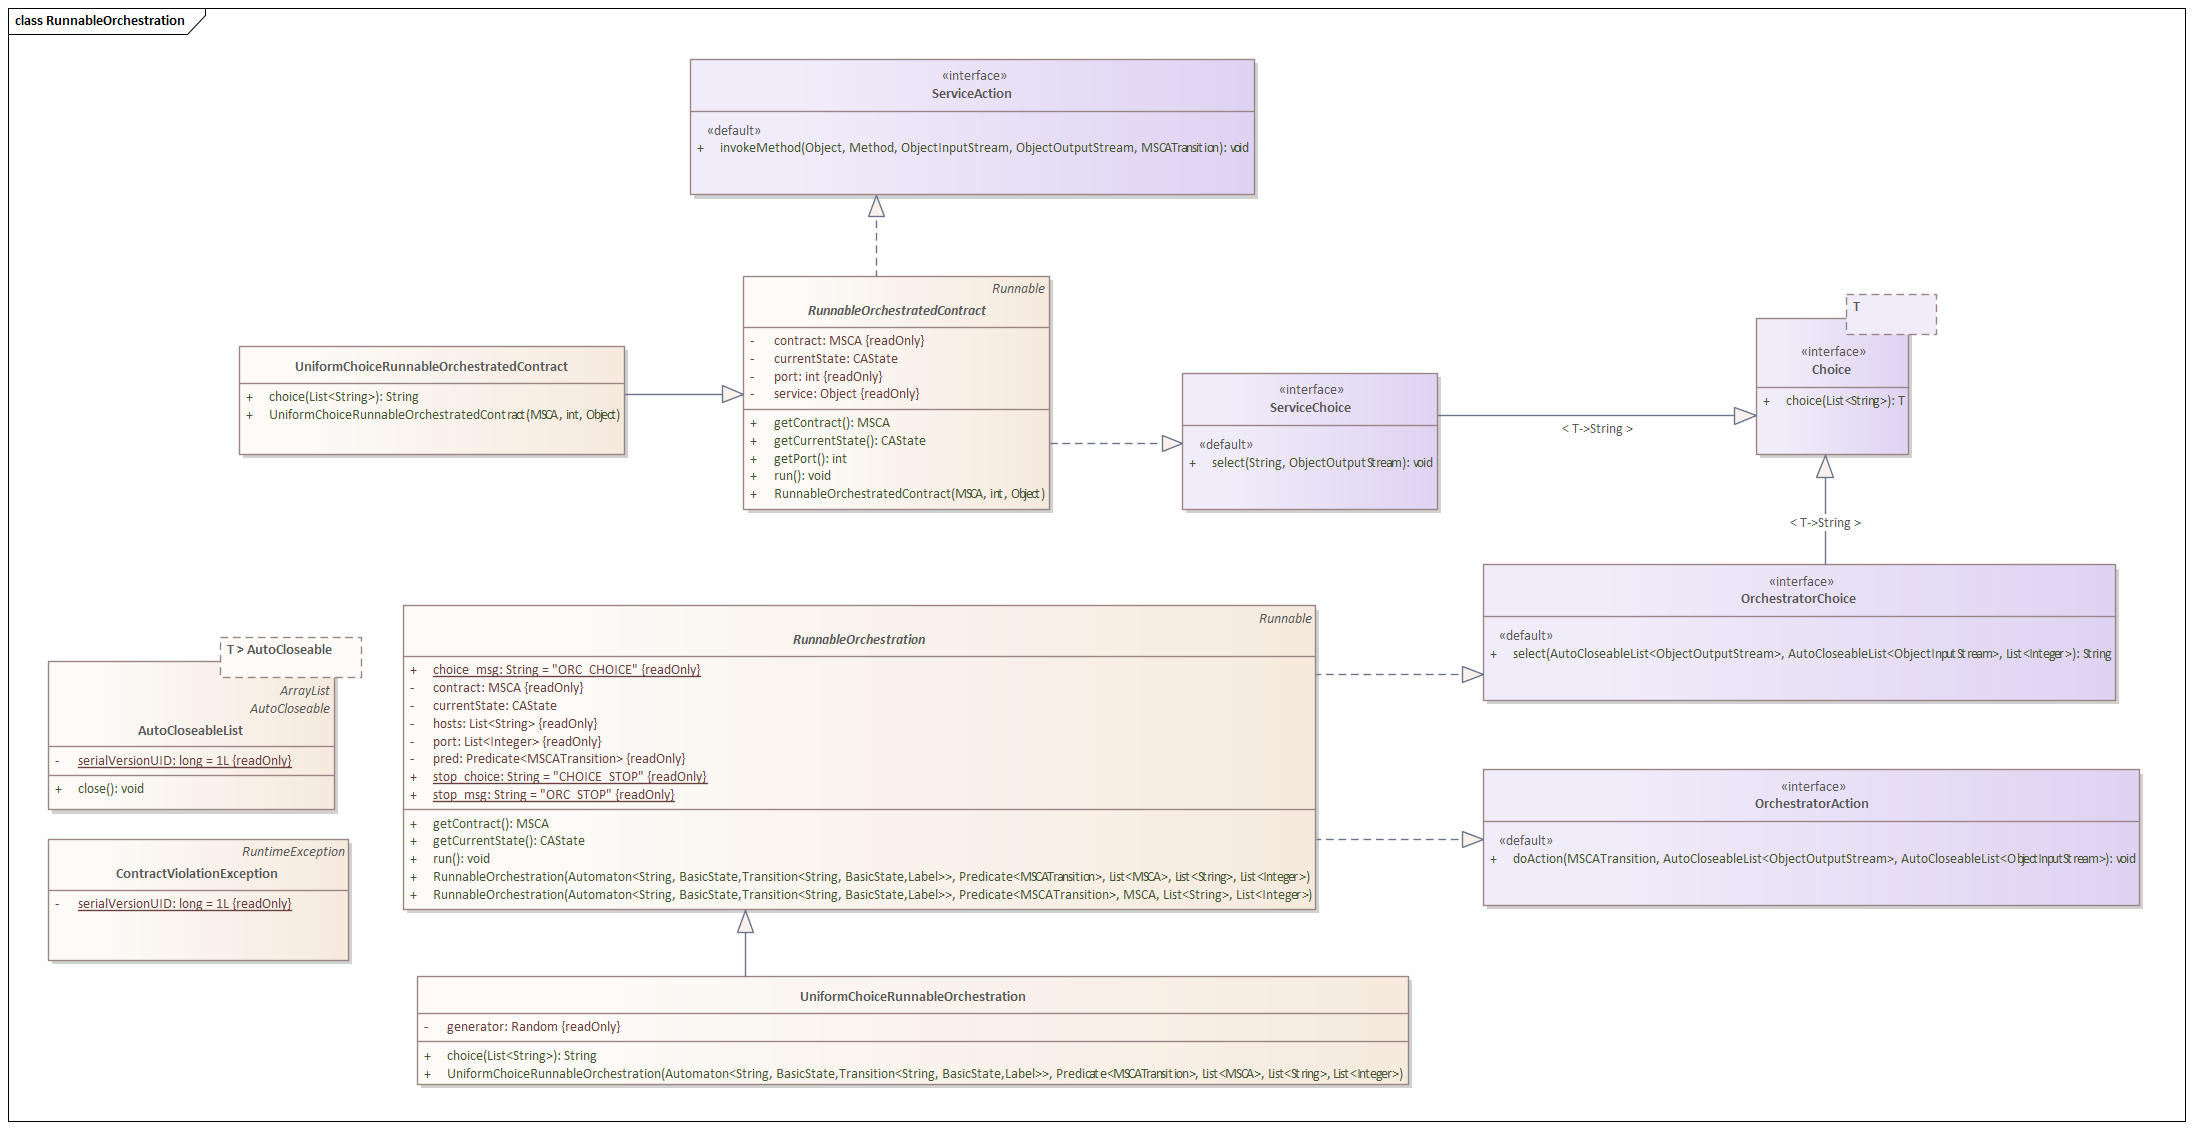
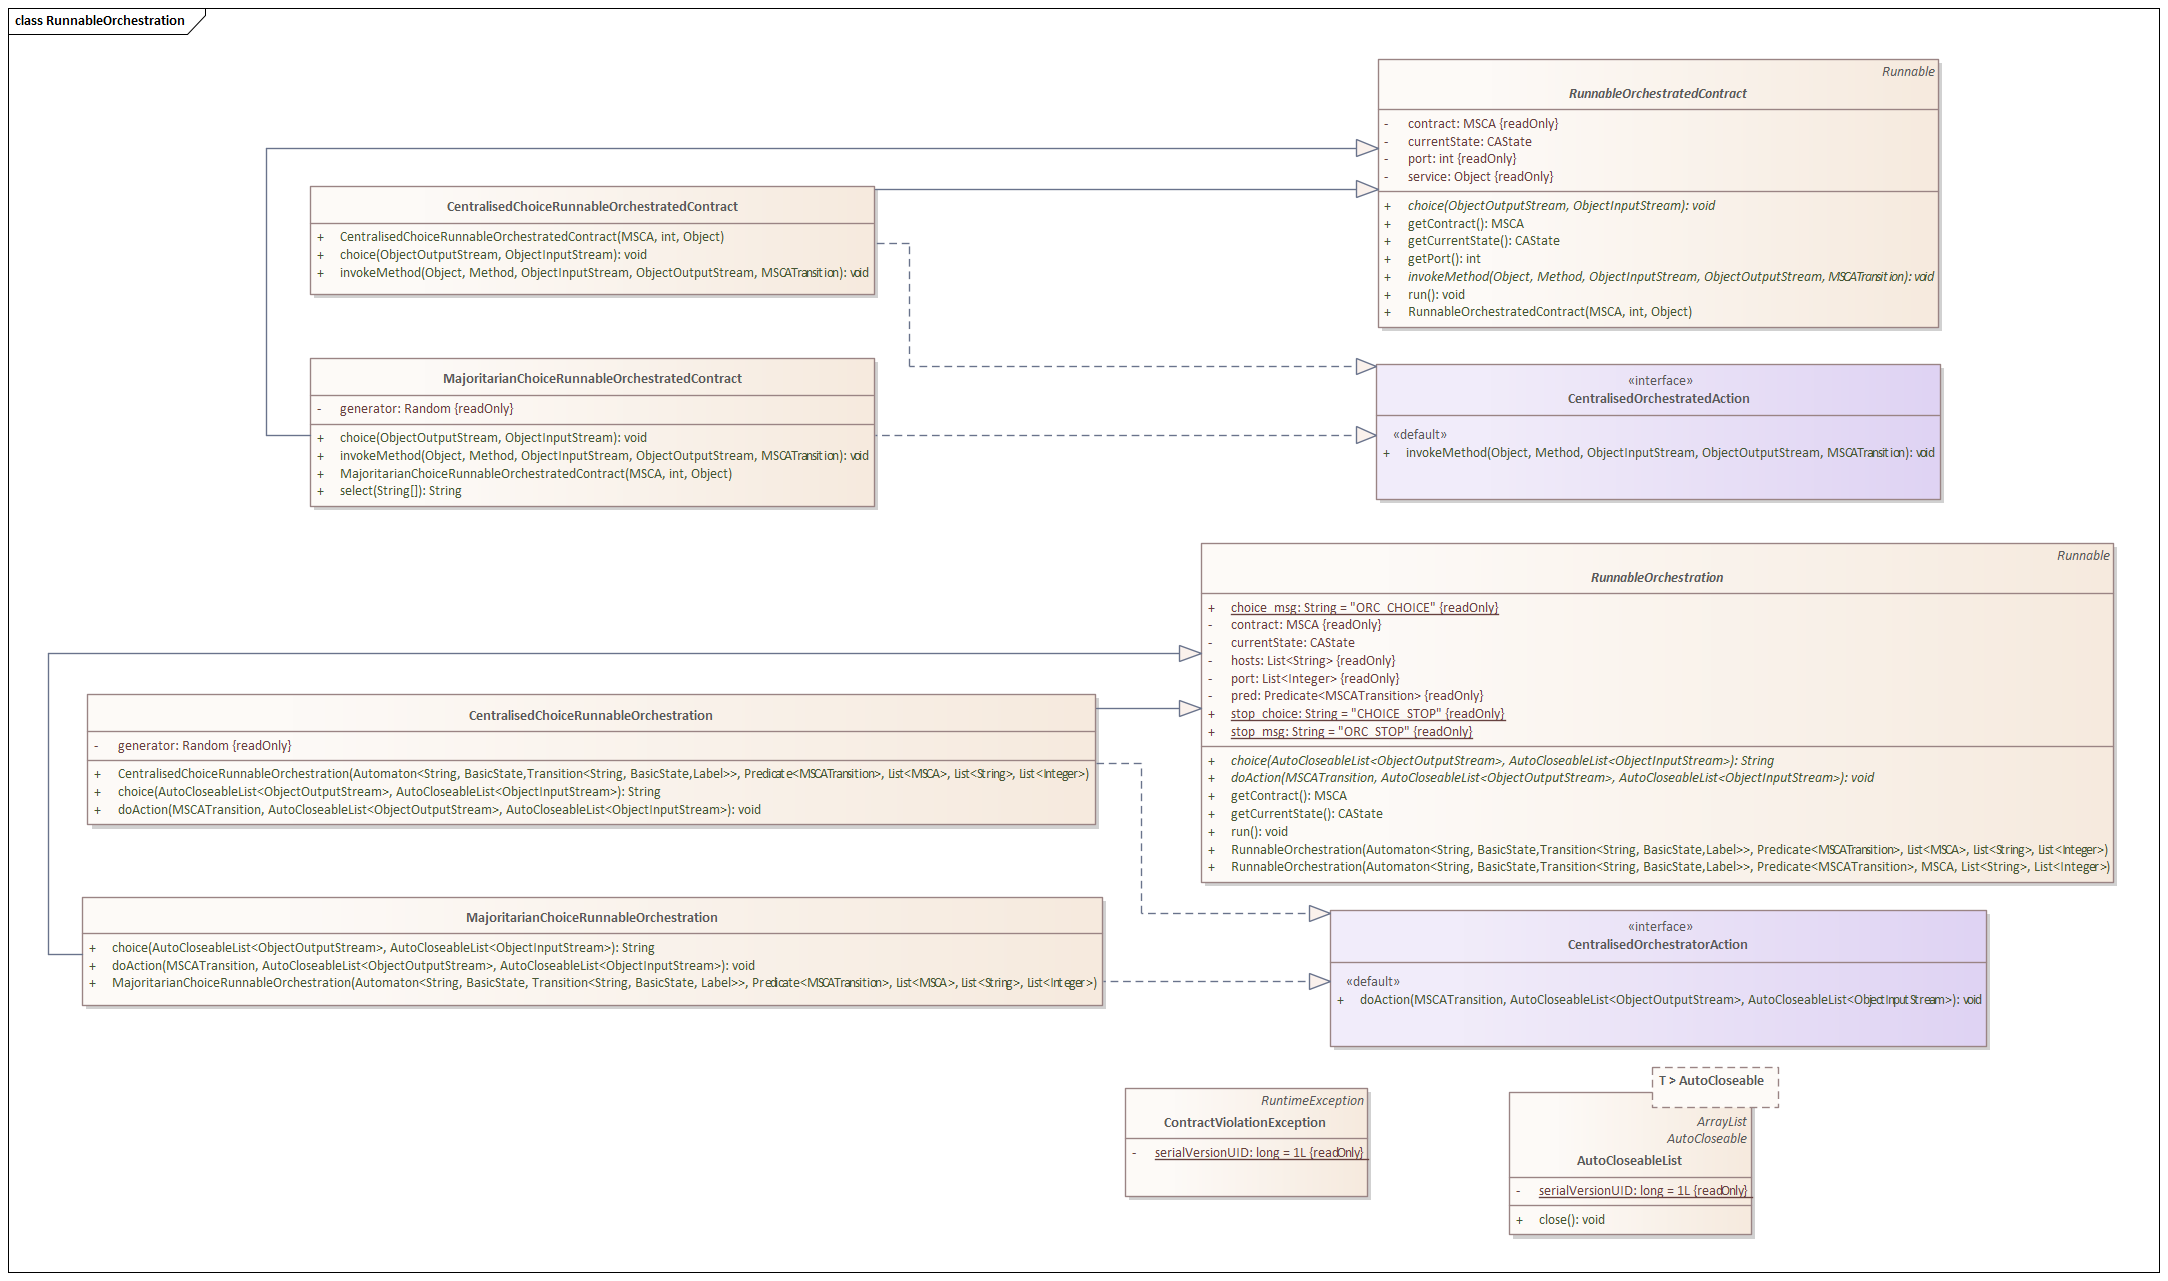
add other choice implementations

Changed region(s): [[0.0, 0.031, 0.9889, 1.0], [0.0927, 0.031, 0.5872, 0.465], [0.0, 0.0, 0.0927, 0.031]]

diff --git a/src/main/java/io/github/contractautomata/RunnableOrchestration/impl/MajoritarianChoiceRunnableOrchestration.java b/src/main/java/io/github/contractautomata/RunnableOrchestration/impl/MajoritarianChoiceRunnableOrchestration.java
@@ -1,0 +1,85 @@
+package io.github.contractautomata.RunnableOrchestration.impl;
+
+import java.io.IOException;
+import java.io.ObjectInputStream;
+import java.io.ObjectOutputStream;
+import java.util.ArrayList;
+import java.util.List;
+import java.util.Set;
+import java.util.function.Function;
+import java.util.function.Predicate;
+import java.util.stream.Collectors;
+import java.util.stream.Stream;
+
+import contractAutomata.automaton.Automaton;
+import contractAutomata.automaton.MSCA;
+import contractAutomata.automaton.label.Label;
+import contractAutomata.automaton.state.BasicState;
+import contractAutomata.automaton.transition.MSCATransition;
+import contractAutomata.automaton.transition.Transition;
+import io.github.contractautomata.RunnableOrchestration.AutoCloseableList;
+import io.github.contractautomata.RunnableOrchestration.RunnableOrchestration;
+import io.github.contractautomata.RunnableOrchestration.actions.CentralisedOrchestratorAction;
+
+/**
+ * each choice is solved by asking the services, and selecting the (or one of the) 
+ * most frequent choice
+ * 
+ * @author Davide Basile
+ *
+ */
+public class MajoritarianChoiceRunnableOrchestration extends RunnableOrchestration implements CentralisedOrchestratorAction{
+
+	public MajoritarianChoiceRunnableOrchestration(Automaton<String, BasicState, Transition<String, BasicState, Label>> req,
+			Predicate<MSCATransition> pred, List<MSCA> contracts, List<String> hosts, List<Integer> port) {
+		super(req, pred, contracts, hosts, port);
+	}
+
+	@Override
+	public String choice(AutoCloseableList<ObjectOutputStream> oout, AutoCloseableList<ObjectInputStream> oin)
+			throws IOException, ClassNotFoundException {
+
+		//computing services that can choose (those involved in one next transition)
+		Set<Integer> toInvoke = this.getContract()
+		.getForwardStar(this.getCurrentState()).stream()
+		.flatMap(t->t.getLabel().isOffer()?Stream.of(t.getLabel().getOfferer())
+				:Stream.of(t.getLabel().getOfferer(),t.getLabel().getRequester()))
+		.distinct().collect(Collectors.toSet());
+		
+		//asking either to choose or skip to the services
+		for (int i=0;i<oout.size();i++){
+			ObjectOutputStream oos = oout.get(i);
+			oos.writeObject(toInvoke.contains(i)?RunnableOrchestration.choice_msg:null);
+			oout.get(i).flush();
+		}
+		
+		//computing and sending the possible choices
+		String[] toChoose = this.getContract()
+				.getForwardStar(this.getCurrentState()).stream()
+				.map(t->t.getLabel().getUnsignedAction())
+				.toArray(String[]::new);
+		for (Integer i : toInvoke) {
+			oout.get(i).writeObject(toChoose);
+			oout.get(i).flush();
+		}
+		
+		//receiving the choice of each service
+		List<String> choices = new ArrayList<>(); 
+		for (int i=0;i<oin.size();i++)
+			choices.add((String) oin.get(i).readObject());
+		
+		return	choices.stream()
+		.collect(Collectors.groupingBy(Function.identity(), Collectors.counting()))
+		.entrySet().stream()
+		.max((x,y)->x.getValue().intValue()-y.getValue().intValue()).orElseThrow(RuntimeException::new).getKey();
+		
+	}
+
+	@Override
+	public void doAction(MSCATransition t, AutoCloseableList<ObjectOutputStream> oout,
+			AutoCloseableList<ObjectInputStream> oin) throws IOException, ClassNotFoundException {
+		CentralisedOrchestratorAction.super.doAction(t, oout, oin);
+		
+	}
+
+}

diff --git a/src/main/java/io/github/contractautomata/RunnableOrchestration/impl/MajoritarianChoiceRunnableOrchestratedContract.java b/src/main/java/io/github/contractautomata/RunnableOrchestration/impl/MajoritarianChoiceRunnableOrchestratedContract.java
@@ -1,0 +1,75 @@
+package io.github.contractautomata.RunnableOrchestration.impl;
+
+import java.io.IOException;
+import java.io.ObjectInputStream;
+import java.io.ObjectOutputStream;
+import java.lang.reflect.InvocationTargetException;
+import java.lang.reflect.Method;
+import java.util.Random;
+
+import contractAutomata.automaton.MSCA;
+import contractAutomata.automaton.transition.MSCATransition;
+import io.github.contractautomata.RunnableOrchestration.RunnableOrchestratedContract;
+import io.github.contractautomata.RunnableOrchestration.RunnableOrchestration;
+import io.github.contractautomata.RunnableOrchestration.actions.CentralisedOrchestratedAction;
+
+/**
+ * The service when asked upon send its branch/termination choice, 
+ * by assigning  a uniform distribution and picking one, with 
+ *  50% chance of terminating when possible.
+ *  
+ * @author Davide Basile
+ *
+ */
+public class MajoritarianChoiceRunnableOrchestratedContract extends RunnableOrchestratedContract implements CentralisedOrchestratedAction  {
+
+	private final Random generator;
+
+	public MajoritarianChoiceRunnableOrchestratedContract(MSCA contract, int port, Object service) throws IOException {
+		super(contract, port, service);
+		generator = new Random();
+	}
+
+	@Override
+	public void choice(ObjectOutputStream oout, ObjectInputStream oin) throws IOException, ClassNotFoundException {
+
+		//receive message from orchestrator on whether to choose or skip
+		String action = (String) oin.readObject();
+		
+		System.out.println("received "+action);
+		
+		if (action==null) //skip
+			return;
+		
+		//receiving the possible choices
+		String[] toChoose = (String[]) oin.readObject();
+		
+		String select =select(toChoose);
+		
+		//sending the selected choice
+		oout.writeObject(select);
+		oout.flush();		
+	}
+
+	@Override
+	public void invokeMethod(Object service, Method m1, ObjectInputStream oin, ObjectOutputStream oout,
+			MSCATransition t) throws IllegalAccessException, IllegalArgumentException, InvocationTargetException,
+	ClassNotFoundException, IOException {
+		CentralisedOrchestratedAction.super.invokeMethod(service, m1, oin, oout, t);
+
+	}
+	
+	/**
+	 * To override for changing policy of selection
+	 * 
+	 * @param toChoose  the list of possible choices
+	 * @return the choice made to be communicated to the orchestrator
+	 */
+	public String select(String[] toChoose) {
+		if (this.getCurrentState().isFinalstate()&&generator.nextInt(2)==0) //50% chance of terminating
+			return RunnableOrchestration.stop_choice; 
+		else		
+			return toChoose[generator.nextInt(toChoose.length)];
+	}
+
+}

diff --git a/src/main/java/io/github/contractautomata/RunnableOrchestration/impl/DictatorialChoiceRunnableOrchestration.java b/src/main/java/io/github/contractautomata/RunnableOrchestration/impl/DictatorialChoiceRunnableOrchestration.java
@@ -1,4 +1,4 @@
-package io.github.contractautomata.RunnableOrchestration.Uniform;
+package io.github.contractautomata.RunnableOrchestration.impl;
 
 import java.io.IOException;
 import java.io.ObjectInputStream;
@@ -16,21 +16,21 @@ import contractAutomata.automaton.transition.MSCATransition;
 import contractAutomata.automaton.transition.Transition;
 import io.github.contractautomata.RunnableOrchestration.AutoCloseableList;
 import io.github.contractautomata.RunnableOrchestration.RunnableOrchestration;
-import io.github.contractautomata.RunnableOrchestration.interfaces.CentralisedOrchestratorAction;
+import io.github.contractautomata.RunnableOrchestration.actions.CentralisedOrchestratorAction;
 
 /**
- * Abstract orchestration class resolving choices by assigning 
- * a uniform distribution and picking one. 
- * When in a final state, there is 50% chance of terminating.
+ * Orchestration class resolving choices by assigning 
+ * a uniform distribution and picking one, with 
+ *  50% chance of terminating when possible.
  * 
  * @author Davide Basile
  *
  */
-public class UniformChoiceRunnableOrchestration extends RunnableOrchestration implements CentralisedOrchestratorAction {
+public class DictatorialChoiceRunnableOrchestration extends RunnableOrchestration implements CentralisedOrchestratorAction {
 
 	private final Random generator;
 
-	public UniformChoiceRunnableOrchestration(Automaton<String, BasicState,Transition<String, BasicState,Label>> req, 
+	public DictatorialChoiceRunnableOrchestration(Automaton<String, BasicState,Transition<String, BasicState,Label>> req, 
 			Predicate<MSCATransition> pred, List<MSCA> contracts, List<String> hosts, List<Integer> port) {
 		super(req, pred, contracts, hosts, port);
 		generator = new Random();
@@ -48,10 +48,6 @@ public class UniformChoiceRunnableOrchestration extends RunnableOrchestration im
 	 * @throws ClassNotFoundException
 	 */
 	public String choice(AutoCloseableList<ObjectOutputStream> oout, AutoCloseableList<ObjectInputStream> oin) throws IOException, ClassNotFoundException {
-		
-//		List<String> choices = new ArrayList<>(); 
-//		for (int i=0;i<oin.size();i++)
-//			choices.add((String) oin.get(i).readObject());
 		
 		List<MSCATransition> fs = new ArrayList<>(this.getContract().getForwardStar(this.getCurrentState()));
 		

diff --git a/src/main/java/io/github/contractautomata/RunnableOrchestration/RunnableOrchestratedContract.java b/src/main/java/io/github/contractautomata/RunnableOrchestration/RunnableOrchestratedContract.java
@@ -65,7 +65,7 @@ public abstract class RunnableOrchestratedContract implements Runnable {
 			while (true) {
 				//receive message from orchestrator
 				String action = (String) oin.readObject();
-				
+					
 				System.out.println("Service on host " + socket.getLocalAddress().toString() + ", port "+socket.getLocalPort()+": received message "+action);
 
 				if (action.equals(RunnableOrchestration.stop_msg))
@@ -106,14 +106,14 @@ public abstract class RunnableOrchestratedContract implements Runnable {
 				//update state
 				currentState=t.getTarget();
 			}
-		} catch (IOException|ClassNotFoundException e) {
+		} catch (Exception e) {
 			RuntimeException re = new RuntimeException();
 			re.addSuppressed(e);
 			throw new RuntimeException(e);
 		} 
 	}
 	
-	public abstract void choice(ObjectOutputStream oout, ObjectInputStream oin) throws IOException;
+	public abstract void choice(ObjectOutputStream oout, ObjectInputStream oin) throws Exception;
 	
 	/**
 	 * 
@@ -128,7 +128,6 @@ public abstract class RunnableOrchestratedContract implements Runnable {
 	 * @throws ClassNotFoundException
 	 * @throws IOException
 	 */
-	public abstract void invokeMethod(Object service, Method m1, ObjectInputStream oin, ObjectOutputStream oout, MSCATransition t ) throws IllegalAccessException, IllegalArgumentException, InvocationTargetException, ClassNotFoundException, IOException;
-
+	public abstract void invokeMethod(Object service, Method m1, ObjectInputStream oin, ObjectOutputStream oout, MSCATransition t ) throws Exception;
 
 }

diff --git a/src/main/java/io/github/contractautomata/RunnableOrchestration/impl/DictatorialChoiceRunnableOrchestratedContract.java b/src/main/java/io/github/contractautomata/RunnableOrchestration/impl/DictatorialChoiceRunnableOrchestratedContract.java
@@ -1,4 +1,4 @@
-package io.github.contractautomata.RunnableOrchestration.Uniform;
+package io.github.contractautomata.RunnableOrchestration.impl;
 
 import java.io.IOException;
 import java.io.ObjectInputStream;
@@ -9,11 +9,11 @@ import java.lang.reflect.Method;
 import contractAutomata.automaton.MSCA;
 import contractAutomata.automaton.transition.MSCATransition;
 import io.github.contractautomata.RunnableOrchestration.RunnableOrchestratedContract;
-import io.github.contractautomata.RunnableOrchestration.interfaces.CentralisedOrchestratedAction;
+import io.github.contractautomata.RunnableOrchestration.actions.CentralisedOrchestratedAction;
 
-public class UniformChoiceRunnableOrchestratedContract extends RunnableOrchestratedContract implements CentralisedOrchestratedAction {
-
-	public UniformChoiceRunnableOrchestratedContract(MSCA contract, int port, Object service) throws IOException {
+public class DictatorialChoiceRunnableOrchestratedContract extends RunnableOrchestratedContract implements CentralisedOrchestratedAction {
+	
+	public DictatorialChoiceRunnableOrchestratedContract(MSCA contract, int port, Object service) throws IOException {
 		super(contract, port, service);
 		// TODO Auto-generated constructor stub
 	}
@@ -21,8 +21,6 @@ public class UniformChoiceRunnableOrchestratedContract extends RunnableOrchestra
 	
 	@Override
 	public void choice(ObjectOutputStream oout, ObjectInputStream oin) throws IOException {
-//		oout.writeObject(null);
-//		oout.flush();
 	}
 
 

diff --git a/src/main/java/io/github/contractautomata/RunnableOrchestration/RunnableOrchestration.java b/src/main/java/io/github/contractautomata/RunnableOrchestration/RunnableOrchestration.java
@@ -117,8 +117,8 @@ public abstract class RunnableOrchestration implements Runnable {
 
 
 				//the choice on the transition to fire or to terminate is made beforehand
-				String choice;
-				if (fs.size()>1 || currentState.isFinalstate())
+				final String choice;
+				if (fs.size()>1 || (currentState.isFinalstate() && fs.size()==1))
 				{
 					System.out.println("Orchestrator sending choice message");
 					for (ObjectOutputStream o : oout) {
@@ -127,8 +127,10 @@ public abstract class RunnableOrchestration implements Runnable {
 					}
 					choice = choice(oout,oin);
 				}
-				else
+				else if (fs.size()==1)
 					choice = fs.get(0).getLabel().getUnsignedAction();
+				else
+					choice="";//for initialization
 
 				//check final state
 				if (currentState.isFinalstate() && (fs.isEmpty()||choice==stop_choice))
@@ -163,6 +165,7 @@ public abstract class RunnableOrchestration implements Runnable {
 			}
 
 		}catch (Exception e) {
+			System.out.println(e.getMessage());
 			RuntimeException re = new RuntimeException();
 			re.addSuppressed(e);
 			throw new RuntimeException();

diff --git a/src/main/java/io/github/contractautomata/RunnableOrchestration/actions/CentralisedOrchestratedAction.java b/src/main/java/io/github/contractautomata/RunnableOrchestration/actions/CentralisedOrchestratedAction.java
@@ -1,4 +1,4 @@
-package io.github.contractautomata.RunnableOrchestration.interfaces;
+package io.github.contractautomata.RunnableOrchestration.actions;
 
 import java.io.IOException;
 import java.io.ObjectInputStream;

diff --git a/src/main/java/io/github/contractautomata/RunnableOrchestration/actions/CentralisedOrchestratorAction.java b/src/main/java/io/github/contractautomata/RunnableOrchestration/actions/CentralisedOrchestratorAction.java
@@ -1,4 +1,4 @@
-package io.github.contractautomata.RunnableOrchestration.interfaces;
+package io.github.contractautomata.RunnableOrchestration.actions;
 
 import java.io.IOException;
 import java.io.ObjectInputStream;
